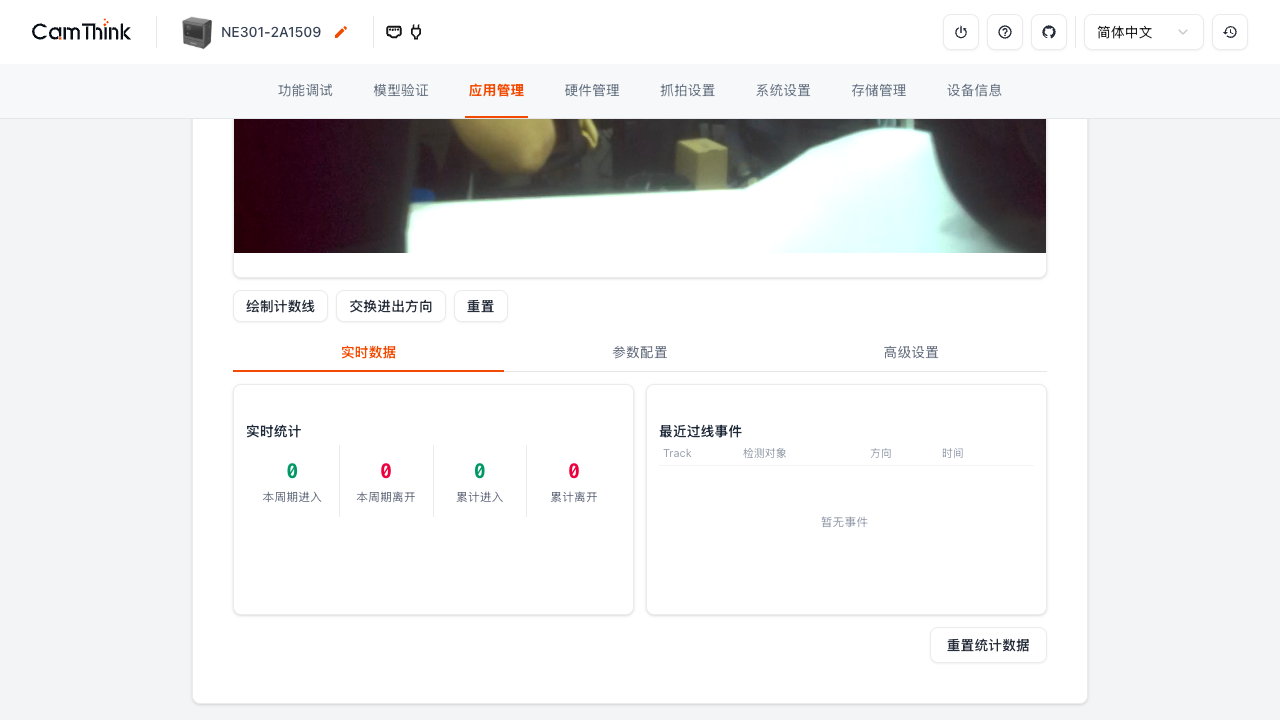
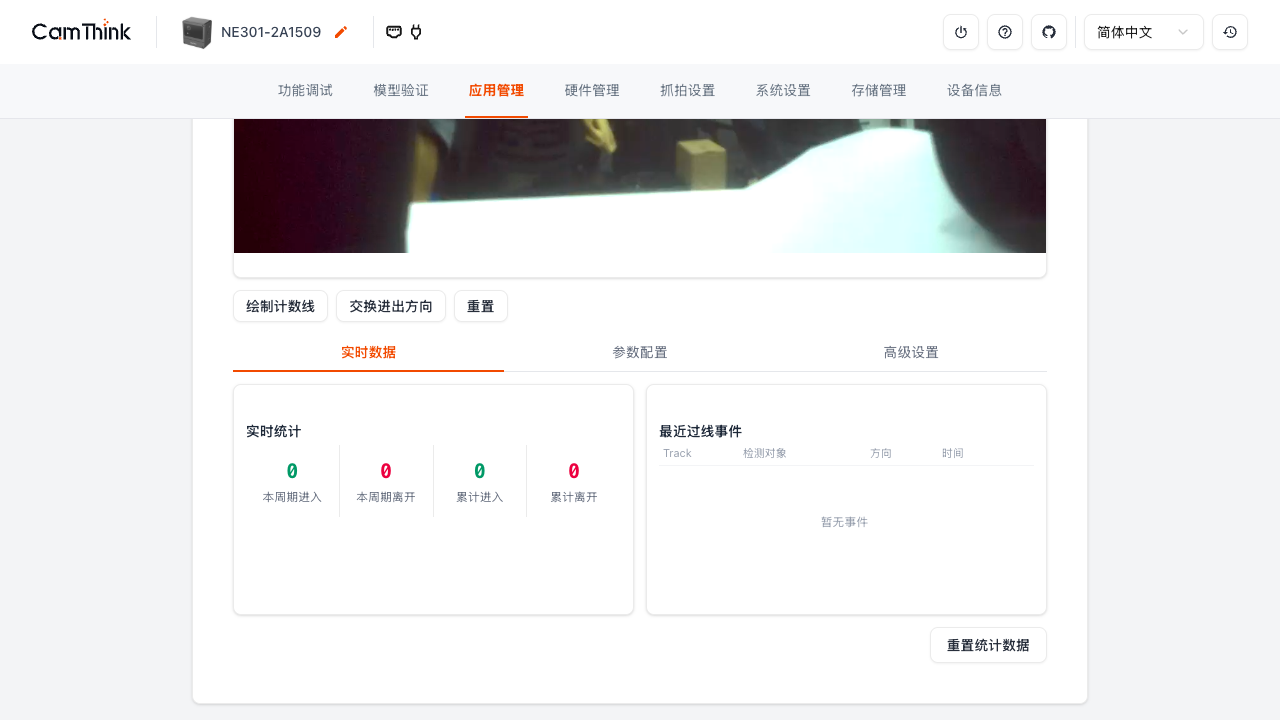
fix(web): harden line counting saves and fix reset statistics

Changed region(s): [[0.3125, 0.1528, 0.5, 0.3056], [0.6562, 0.1528, 0.7188, 0.1833], [0.5312, 0.1833, 0.5625, 0.2139]]

diff --git a/Web/src/pages/applicationManagement/line-counting-module.tsx b/Web/src/pages/applicationManagement/line-counting-module.tsx
@@ -151,9 +151,10 @@ export default function LineCountingModule() {
             setEditPhase(0);
             toast.success(i18n._('sys.line_counting.save_success'));
         } catch (e: unknown) {
-            const msg = (e as { response?: { data?: { message?: string } } })?.response?.data?.message
-                || i18n._('sys.line_counting.save_failed');
-            toast.error(String(msg));
+            const net = (e as { code?: string })?.code === 'ERR_NETWORK';
+            const serverMsg = (e as { data?: { message?: string } })?.data?.message;
+            const base = net ? i18n._('sys.line_counting.save_failed_net') : i18n._('sys.line_counting.save_failed');
+            toast.error(serverMsg ? `${base}: ${serverMsg}` : base);
         } finally {
             setSaving(false);
         }
@@ -174,7 +175,7 @@ export default function LineCountingModule() {
             await pollRuntime();
             toast.success(i18n._('sys.line_counting.reset_success'));
         } catch {
-            toast.error(i18n._('sys.line_counting.reset_failed'));
+            toast.error(i18n._('sys.line_counting.reset_failed_net'));
         }
         setConfirmReset(false);
     };
@@ -258,7 +259,7 @@ export default function LineCountingModule() {
                 />
             )}
 
-            {(page !== 'realtime' || dirty) && config && draft && (
+            {page !== 'realtime' && config && draft && (
                 <div className="flex justify-end pt-1" data-testid="lc-save-bar">
                     <Button onClick={handleSave} disabled={saving}>
                         {saving ? i18n._('sys.line_counting.saving') : i18n._('common.save')}

diff --git a/Web/src/services/api/line-counting.ts b/Web/src/services/api/line-counting.ts
@@ -118,10 +118,12 @@ async function requestWithRetry<T>(fn: () => Promise<T>, attempt: number): Promi
     try {
         return await fn();
     } catch (e) {
-        const errorCode = (e as { data?: { error_code?: string } })?.data?.error_code;
-        if (errorCode !== 'UNAUTHORIZED' || attempt >= 2) throw e;
+        const err = e as { data?: { error_code?: string }; code?: string };
+        const retryable = err?.data?.error_code === 'UNAUTHORIZED' || err?.code === 'ERR_NETWORK';
+        const delays = [1000, 2000, 4000, 8000, 15000];
+        if (!retryable || attempt >= delays.length) throw e;
         await new Promise((resolve) => {
-            setTimeout(resolve, attempt === 0 ? 1200 : 2600);
+            setTimeout(resolve, delays[attempt]);
         });
         return requestWithRetry(fn, attempt + 1);
     }
@@ -137,7 +139,7 @@ const lineCounting = {
     getStatus: () => request.get(`${BASE}/status`),
     getStats: () => request.get(`${BASE}/stats`),
     getEvents: () => request.get(`${BASE}/events`),
-    reset: () => request.post(`${BASE}/reset`),
+    reset: () => requestWithRetry(() => request.post(`${BASE}/reset`, {}), 0),
 };
 
 export default lineCounting;

diff --git a/Web/src/test/lineCountingPage.test.tsx b/Web/src/test/lineCountingPage.test.tsx
@@ -260,7 +260,7 @@ describe('line counting module draft/save behavior', () => {
     expect(saved.reporting.mqtt_enabled).toBe(true);
   });
 
-  it('keeps exactly one Save entry; it follows an unsaved draft onto realtime page', async () => {
+  it('shows exactly one Save entry on config pages and none on realtime page', async () => {
     render(<I18nWrapper><LineCountingModule /></I18nWrapper>);
     await waitFor(() => expect(getConfig).toHaveBeenCalled());
 
@@ -272,7 +272,8 @@ describe('line counting module draft/save behavior', () => {
       target: { value: '北门客流' },
     });
     fireEvent.click(screen.getByRole('tab', { name: '实时数据' }));
-    expect(screen.getByTestId('lc-save-bar')).toBeInTheDocument();
+    expect(screen.queryByTestId('lc-save-bar')).not.toBeInTheDocument();
+    fireEvent.click(screen.getByRole('tab', { name: '高级设置' }));
     expect(screen.getAllByRole('button', { name: '保存' })).toHaveLength(1);
   });
 

diff --git a/Web/src/test/lineCountingApi.test.ts b/Web/src/test/lineCountingApi.test.ts
@@ -121,11 +121,11 @@ describe('lineCounting API client', () => {
     expect(res.data.line).toEqual({ x1: 200, y1: 500, x2: 800, y2: 500, outside_x: 500, outside_y: 200 });
   });
 
-  it('reset uses POST with no body', async () => {
+  it('reset posts an explicit empty JSON body so the device receives Content-Length', async () => {
     await lineCounting.reset();
     expect(mockedRequest.post).toHaveBeenCalledTimes(1);
     const [path, body] = mockedRequest.post.mock.calls[0];
     expect(path).toBe('/api/v1/apps/line-counting/reset');
-    expect(body).toBeUndefined();
+    expect(body).toEqual({});
   });
 });
